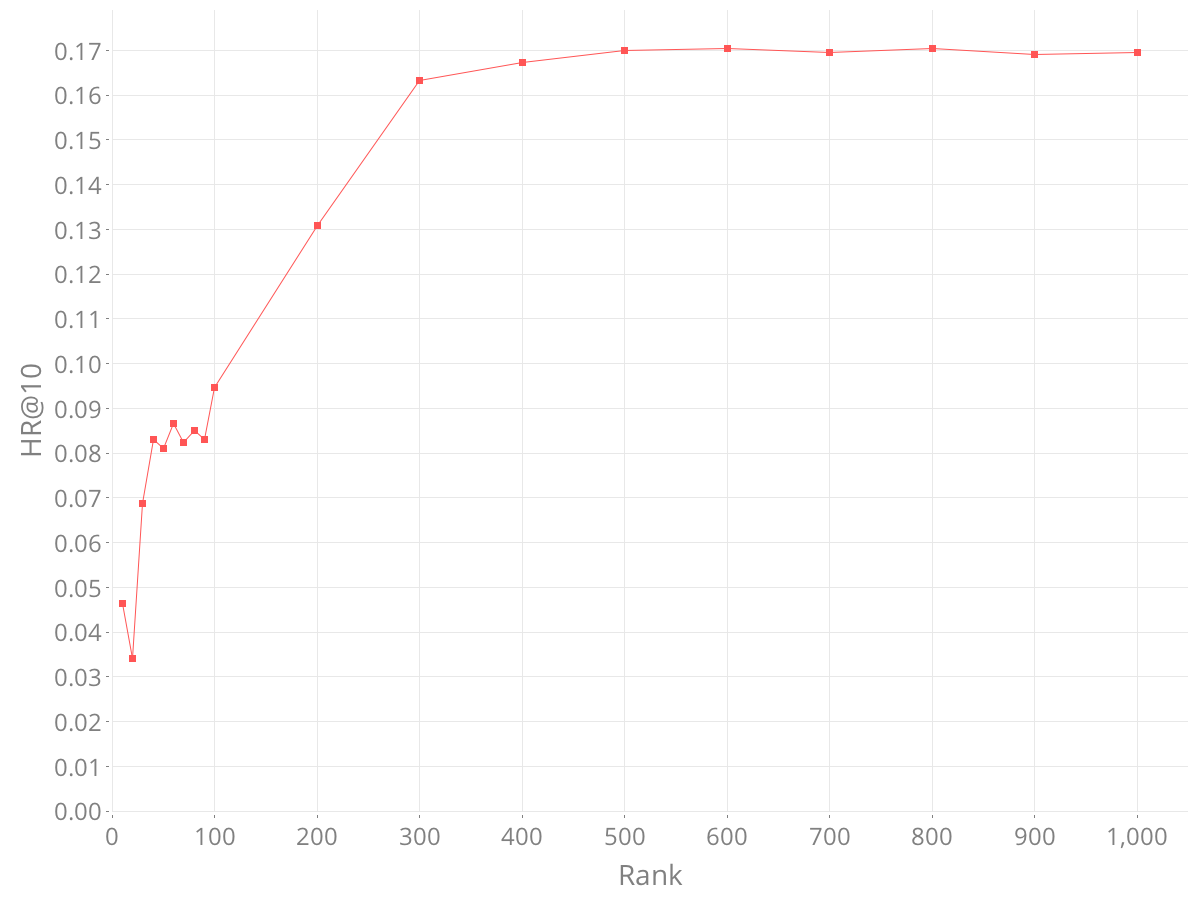
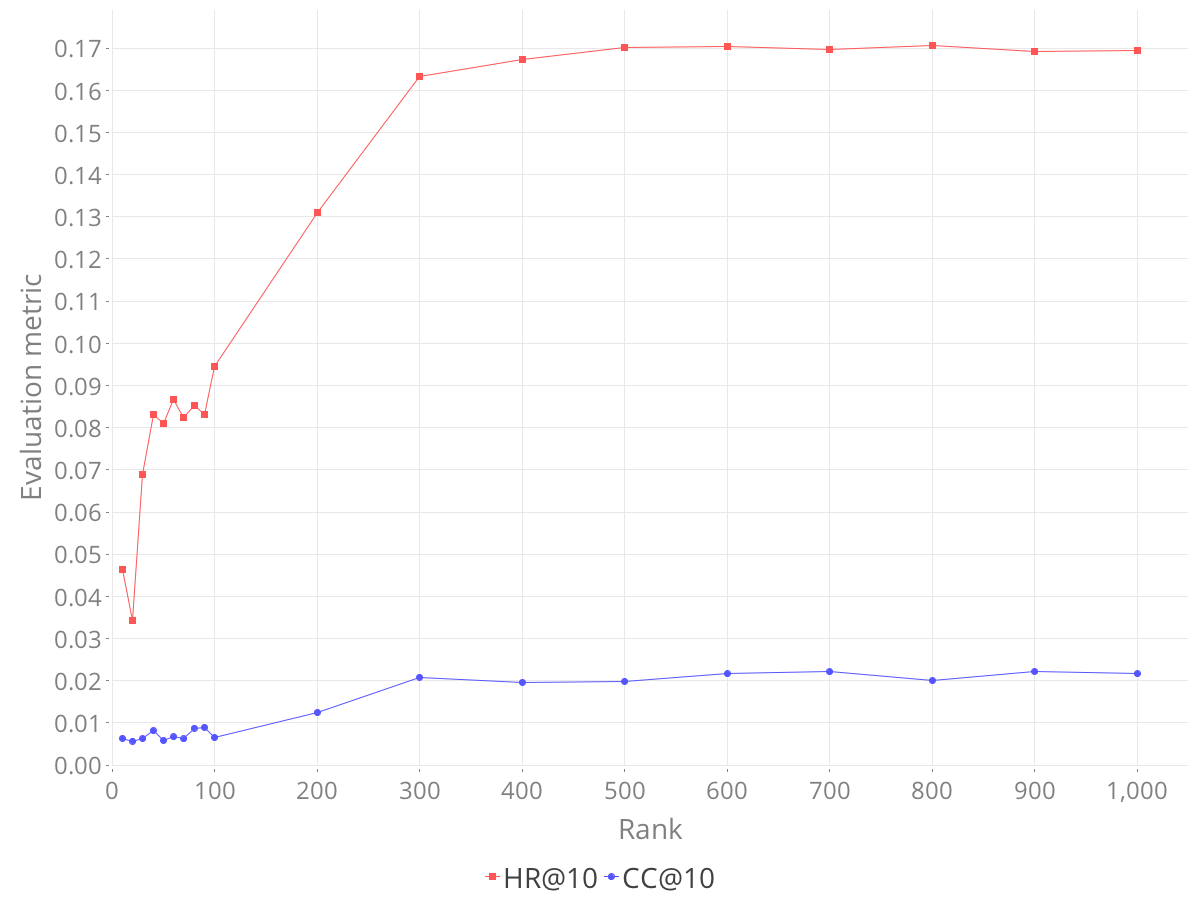
Updaty update

diff --git a/parts/results_rescal.md b/parts/results_rescal.md
@@ -1,44 +1,50 @@
-### Results of RESCAL-based matchmakers
+## Results of RESCAL-based matchmakers
+
+The approach for exploring the space of configurations of RESCAL-based matchmakers was similar to the one used for SPARQL-based matchmakers.
+We started with `pc:mainObject` as the principal feature and examined what improvement can be achieved via adjustments of hyper-parameters, combination with additional features, or other treatments.
+The adopted heuristic for tuning the matchmakers' performance can be considered a manually guided grid search.
+Note that RESCAL exhibits a greater degree of non-determinism than the SPARQL-based method, so that its evaluation results have greater variance.
+
+We measured the same evaluation metrics for the RESCAL-based matchmakers as for the SPARQL-based ones.
+Since we do not use any threshold for RESCAL-based matchmakers, their prediction coverage is always maximum.
+Consequently, we omit this metric from the evaluation results.
+
+### Hyper-parameters
+
+The central hyper-parameter of RESCAL is the rank of its decomposition.
+As reported in literature, RESCAL's accuracy improves with increasing rank of the factorization.
+With higher ranks we observe diminishing returns and, eventually, HR@10 ceases to improve at around rank 500, as the [@fig:hrs-per-rank] displays.
+An analogous impact can be observed for CC@10, although its growth is much more subtle.
+We tested ranks ranging from 10 to 1000, using smaller intervals for greater resolution in low ranks.
+Runtime of tensor factorization with RESCAL increases approximately linearly with the rank, so there is a need to balance the quality of RESCAL's results with the available time to compute them.
+
+![HR@10 and CC@10 per rank](img/evaluation/hrs_per_rank.png){#fig:hrs-per-rank}
+
+We observed that performance improves with rank only for more selective properties, e.g., `pc:mainObject`.
+Properties that have fewer distinct values, such as `pc:kind`, reach their peak performance already at lower ranks.
 
 <!--
-The approach for exploring the space of configurations of RESCAL-based matchmakers was similar to the one used for SPARQL-based matchmakers.
+Initialization methods: random, eigenvalues
+- Do we need to discuss them?
+- We should probably do experiments with the baseline `pc:mainObject` showing the impact of different initialization methods.
 
-A heuristic/method of tuning the hyper-parameters: informed/guided grid search?
-
-Since we do not using any threshold for RESCAL-based matchmakers, their prediction coverage is always maximum.
-Consequently, we omit it from the evaluation results.
-
-Note that RESCAL has a greater degree of non-determinism, so that its evaluation results have greater variance.
-
-#### Random baseline
-
-Is it a meaningful baseline?
-Or should we instead use only the `pc:mainObject` as the baseline, similarly to the SPARQL-based matchmakers?
+Omit setting maximum iterations or maximum residual? (We used the default values.)
 -->
 
-#### Hyper-parameters
-
-As reported in literature, RESCAL's accuracy improves with increasing rank of the factorization.
-With higher ranks we observe diminishing returns and, ultimately, the accuracy ceases to improve at around rank 500. 
-
-![HR@10 per rank](img/evaluation/hrs_per_rank.png){#fig:hrs-per-rank}
+RESCAL allows to tune its generalization ability via the regularization parameters *lambda A* for the latent factor matrix $A$ and *lambda R* for the tensor $R$ that captures the interactions of the latent components.
+Increasing the amount of regularization helps avoid overfitting.
+Optimal values of the regularization parameters are dataset-specific.
+While @Padia2016 achieved the best results with *lambda A* = 10 and *lambda R* = 0.2, @Kuchar2016 obtained the peak performance by setting both to 0.01. 
+In our case, we found that relatively high values of the regularization parameters tend to achieve the best results.
+We set both *lambda A* and *lambda R* to be 10.
 
 <!--
-Observation: Performance improves with rank only for more selective properties, e.g., `pc:mainObject`. Properties that have fewer distinct values, such as `pc:kind`, reach their peak performance already at lower ranks.
-
-Initialization methods: random, eigenvalues
-Regularization parameters: lambda A, lambda R
-- best found by [@Kuchar2016]: both 0.01
-- best found by [@Padia2016]: lambda A = 10, lambda R = 0.2
-- We found that relatively high values of the regularization parameters tend to achieve the best results. We set both lambda A and lambda R to be 10.
-Rank
-- Higher rank typically leads to better models. We tested ranks 10 to 1000.
-Omit setting maximum iterations or maximum residual? (We used the default values.)
-
 - Add discussion of sensitivity to hyperparameters?
+-->
 
-#### Feature selection
+### Feature selection
 
+<!--
 `pc:mainObject`
 `pc:additionalObject`
 `pc:mainObject` + `skos:broaderTransitive` (approximating query expansion)
@@ -46,13 +52,24 @@ Omit setting maximum iterations or maximum residual? (We used the default values
 `isvz:serviceCategory`
 `rov:orgActivity`
 `rov:orgActivity` + `skos:broaderTransitive`
+-->
+
+### Ageing
+
+Time series cross-validation
+
+### Literals
 
 Actual prices (i.e. `pc:actualPrice`) are known for 91.5 % of contracts in the evaluated dataset.
 
-Overall, the RESCAL-based matchmakers produce results with very low diversity, especially when considering their CC@10.
-
-#### Ageing
-
 If there is no improvement or a decrease in performance, it might be explainable by noisy data about prices.
 Prices may be reported as coefficients to be multiplied by an implicit factor that is not part of the structured data. 
+
+<!-- Summary -->
+
+Overall, the RESCAL-based matchmakers produce results with very low diversity, especially when considering their CC@10.
+They tend to recommend the same bidders repeatedly. 
+
+<!--
+TODO: Add a comparison of the best-performing configurations of SPARQL-based and RESCAL-based matchmakers.
 -->

diff --git a/parts/results_sparql.md b/parts/results_sparql.md
@@ -1,14 +1,12 @@
-### Results of SPARQL-based matchmakers
+## Results of SPARQL-based matchmakers
 
 We chose SPARQL-based matchmaking via the `pc:mainObject` property without weighting as our baseline.
 The developed matchmakers and configurations were assessed by comparing their evaluation results with the results obtained for the baseline configuration.
 In this way, we assessed the progress beyond the baseline that various matchmaking factors were able to achieve.
 We tested several factors involved in the matchmakers.
 These factors included weighting, query expansion, aggregation functions, and data reduction.
-All reported evaluation results are rounded to two decimal places.
-The best results for each metric in each table are highlighted by using a bold font.
 
-#### Blind matchmakers
+### Blind matchmakers
 
 As a starting point, we evaluated the blind matchmakers described in the [@sec:blind-matchmakers].
 Results of their evaluation are summarized in the [@tbl:blind-matchmakers].
@@ -29,7 +27,7 @@ Table: Evaluation of blind matchmakers {#tbl:blind-matchmakers}
 
 <!-- There are also papers that consider multiple baselines, such as [@Garcin2014]. -->
 
-#### Aggregation functions
+### Aggregation functions
 
 We evaluated the aggregation functions from the [@sec:aggregation-functions].
 The functions were applied to matchmaking via the `pc:mainObject` property with the weight of 0.6.
@@ -49,7 +47,7 @@ Product              **0.25** **0.12**     0.57 **0.98**     0.68
 
 Table: Evaluation t-norms and t-conorms {#tbl:norms-conorms}
 
-#### Individual features
+### Individual features
 
 As we described in the [@sec:contract-objects], we used several properties that describe contract objects.
 We evaluated these properties separately, without weighting, to determine their predictive power.
@@ -74,7 +72,7 @@ Table: Evaluation of individual properties {#tbl:properties-evaluation}
 
 ![HR@k for `pc:mainObject`](img/evaluation/cumulative_hr.png){#fig:cumulative-hr width=75%}
 
-#### Combined features
+### Combined features
 
 Having evaluated the properties individually we examined whether their combinations could perform better.
 We combined the properties with the baseline property `pc:mainObject`, using a reduced weight of 0.1 for the added properties.
@@ -106,7 +104,7 @@ qualifiers
 
 Table: Evaluation of combined properties {#tbl:combined-properties}
 
-#### Query expansion
+### Query expansion
 
 Apart from using combinations of properties, we can also extend the baseline matchmaker via query expansion, as documented in [@sec:query-expansion].
 We evaluated the expansion to related CPV concepts connected via hierarchical relations, both in the direction to broader concepts, to narrower concepts, or in both directions.
@@ -139,7 +137,7 @@ Broader Narrower Weight    HR@10   MRR@10    CC@10       PC   LTP@10
 
 Table: Evaluation of matchmakers using query expansion {#tbl:query-expansion}
 
-#### Data reduction
+### Data reduction
 
 We evaluated the impact of data reduction on HR@10 for the baseline matchmaker and the blind matchmaker that constantly recommends the top winning bidders.
 Prior to running the evaluation we reduced the number of links between contracts and bidders to a given fraction.
@@ -153,7 +151,7 @@ Both approaches suffer from the cold start problem, although the baseline matchm
 
 ![HR@10 per level of data reduction](img/evaluation/data_reduction.png){#fig:data-reduction width=75%}
 
-#### Data refinement
+### Data refinement
 
 Of the data refinement steps undertaken, as described in the [@sec:transformation], we evaluated what impact better deduplication and mapping CPV 2003 to CPV 2008 had on the baseline matchmaker.
 Both steps improved the evaluation results of the matchmaker, as can be seen in the [@tbl:data-refinement].
@@ -171,7 +169,7 @@ Final                         **0.25** **0.12**     0.57 **0.98**     0.68
 
 Table: Impact of data refinement on the baseline matchmaker {#tbl:data-refinement}
 
-#### Counter-measures to limits of ground truth 
+### Counter-measures to limits of ground truth 
 
 We evaluated two approaches devised as counter-measures to address the limits of our ground truth.
 One of them weighted contract awards by the zIndex fairness score of the contracting authority, the other limited the training dataset to contracts awarded in open procedures.

diff --git a/parts/evaluation.md b/parts/evaluation.md
@@ -1,10 +1,18 @@
 # Evaluation
 
+<!--
 We evaluated both the statistical and practical significance of our contributions.
 Evaluation of statistical significance was used to rule out the differences between the evaluated matchmakers that could be attributed to random error.
-We considered practical importance of our research as part of the qualitative evaluation. 
-In this way, we attempted to demonstrate the utility of our developed artefacts.
+We considered practical importance of our research as part of the qualitative evaluation.
+-->
+
+We attempted to demonstrate the utility of the developed matchmakers by evaluating several metrics.
+We chose metrics that approximate the accuracy and diversity of matchmaking.
+The metrics were evaluated in an offline setup.
+
+<!--
 We used a combination of offline evaluation and qualitative evaluation.
+-->
 
 <!-- TODO: Frame within the context of design science.
 
@@ -16,7 +24,7 @@ In terms of Wieringa [-@Wieringa2014, p. 31], both our offline evaluation and qu
 
 <!-- Offline evaluation -->
 
-Offline evaluation is an experimental setting, in which past user interactions are used as ground truth.
+Offline evaluation is an experimental setting in which past user interactions are used as ground truth.
 In this setting, some interactions are withheld and the evaluated system is assessed on its ability to fill in the missing interactions. 
 Offline evaluation is defined in the recommender systems research in contrast to online evaluation.
 While online evaluation involves users in real-time, offline evaluation approximates actual user behaviour by using pre-recorded user interactions.
@@ -51,11 +59,14 @@ Several studies found that *"results of offline and online evaluations often con
 However, conducting online evaluation is expensive since it requires an application with real users.
 In order to attract a sufficient mass of users to make the findings from the evaluation statistically significant, the application must be relatively mature and proven useful.
 Moreover, we wanted to explore a large space of different matchmaker configurations, for which carrying out online evaluation would be prohibitively expensive.
+Ultimately, due to the large effort involved in setting up online evaluation we restricted our work to offline evaluation.
 
 <!-- Qualitative evaluation -->
 
+<!--
 Due to the large effort required by setting up an online evaluation, we decided to balance the shortcoming of offline evaluation with qualitative evaluation.
 We used offline evaluation to prescreen viable matchmaking methods and configurations to select fewer promising variants that we subsequently consulted using semi-structured interviews with domain experts and prospective users of the matchmakers.
+-->
 
 <!--
 Alternative evaluation protocol, widely used in top-k recommendation: <http://dl.acm.org/citation.cfm?id=1864721>

diff --git a/parts/offline_evaluation.md b/parts/offline_evaluation.md
@@ -1,4 +1,4 @@
-## Offline evaluation
+<!-- ## Offline evaluation -->
 
 <!--
 FIXME: Do we basically do grid search? Configuration can be considered as hyperparameters. We are basically trying to find the most important (sensitive) hyper-parameters.
@@ -10,12 +10,13 @@ Effect size:
 - Compare effect sizes relative to the baseline?
 -->
 
-We used offline evaluation to filter matchmaking methods and configurations to those that were subsequently used in qualitative evaluation.
+We used offline evaluation to filter matchmaking methods and configurations to find the most promising ones.
 Since we test different matchmakers in the same context, this evaluation can be considered a trade-off analysis [@Wieringa2014, p. 260], in which we balance the differences in the evaluated measures.
 
-### Ground truth
+## Ground truth
 
 We conducted offline evaluation using retrospective data about awarded public contracts.
+As we described previously in the [@sec:ground-truth], the ground truth poses several challenges and limitations that the matchmakers have to deal with.
 Matchmaking was tested on the task of predicting the awarded bidder.
 In our case, we treat contract awards as explicit positive user feedback.
 Thus, in terms of [@Beel2013], we use a "user-offline-dataset", since it contains implicit ratings inferred from contract awards.
@@ -29,7 +30,7 @@ This may be either in error or when members of the winning groups of bidders are
 For example, framework agreements may be awarded to multiple bidders.
 For the sake of simplicity we decided to exclude these contracts from our ground truth.
 
-### Evaluation protocol {#sec:evaluation-protocol}
+## Evaluation protocol {#sec:evaluation-protocol}
 
 <!-- N-fold cross-validation -->
 
@@ -54,7 +55,7 @@ Should we split by time? For example, use 8 years (2006-2014) as training and 2 
 Should we add an explanation why we did not split folds by time?
 -->
 
-### Evaluated metrics {#sec:evaluated-metrics}
+## Evaluated metrics {#sec:evaluated-metrics}
 
 <!-- Metrics and objectives -->
 
@@ -167,5 +168,9 @@ We used Wilcoxon signed-rank test [@Rey2014] to evaluate the statistical signifi
 We chose it because we compare ranks for the whole dataset and this test is suited for paired samples from the same population.
 Moreover, it does not require the compared samples to follow normal distribution, which is the case of the distributions of ranks.
 -->
+
+The rest of this chapter features the results obtained by SPARQL-based and RESCAL-based matchmakers in the evaluation.
+All reported evaluation results are rounded to two decimal places.
+The best results for each metric in each table are highlighted by using a bold font.
 
 [^top10]: 91 % of search engine users consider only the top 10 results, according to a study (<http://www.seo-takeover.com/case-study-click-through-rate-google>).

diff --git a/parts/conclusions.md b/parts/conclusions.md
@@ -14,7 +14,7 @@ Main contributions:
 * Reusable command-line tools for working with RDF data
 
 We explored only a few ways of matchmaking public contracts to bidders.
-Many more ways are left open to pursue and assess their worth.
+Many more ways of relevance engineering are left open to pursue and assess their worth.
 
 <!--
 Linked open data is raw data.
@@ -23,6 +23,8 @@ We found the SPARQL-based matchmaking to be superior. (TODO: update)
 - Is there any reason to use RESCAL-based matchmaking?
 
 New findings compared with the state of the art
-
-Our work perhaps produced more value in the developed reusable tools for data preparation and matchmaking than as a use case in public procurement.
 -->
+
+Evaluation with reduced data confirmed that *"simple models and a lot of data trump more elaborate models based on less data"* [@Halevy2009, p. 9].
+
+Ultimately, our work perhaps produced greater value in the developed reusable artefacts for data preparation and matchmaking than as a use case in public procurement.

diff --git a/excerpt.md b/excerpt.md
@@ -49,6 +49,8 @@ parts/tensor_factorization.md
 parts/evaluation.md
 parts/offline_evaluation.md
 parts/results_sparql.md
+parts/results_rescal.md
+parts/conclusions.md
 parts/references.md
 ```
 
